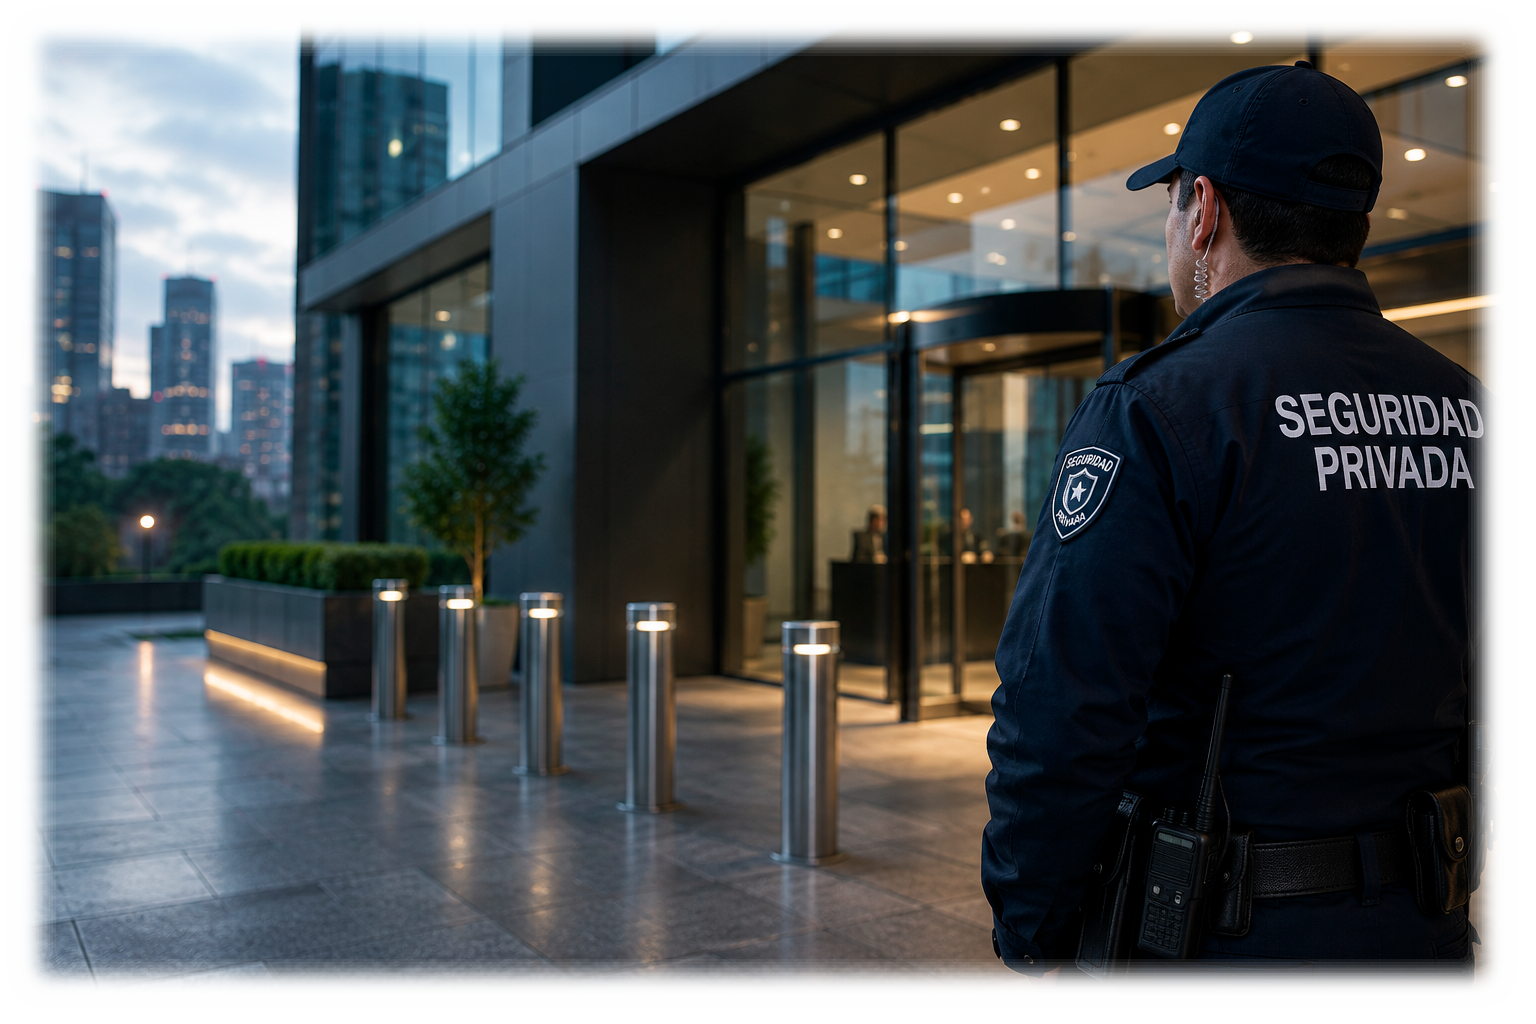
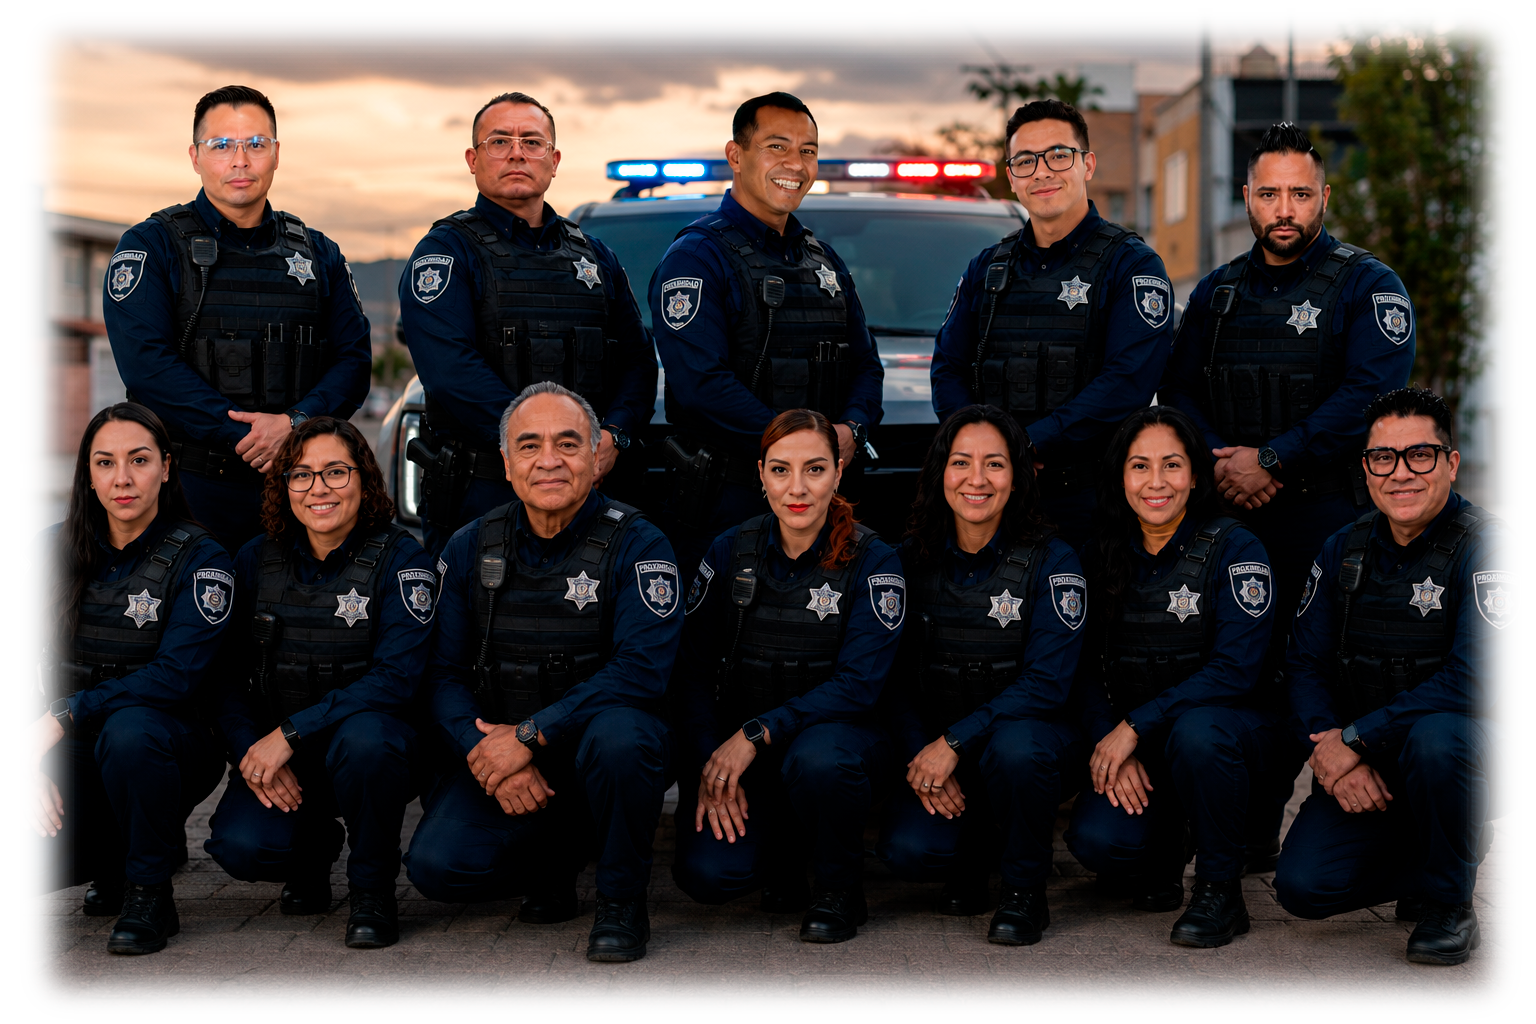
CAMBIO DE FOTO HERO POR EQUIPO

diff --git a/index.html b/index.html
@@ -58,8 +58,8 @@
 	<div class="contenedor">
 		     <div class="hero-texto">
                        <h1>
-                        PORQUE LA CERTIDUMBRE<br>
-                        SIEMPRE ES MEJOR
+                        PROTEGIDO POR UN<br>
+                        EQUIPO DE ÉLITE
                         </h1>
                           <a href="#" class="hero-boton"
                           onclick="recursoDeshabilitado(); return false;">